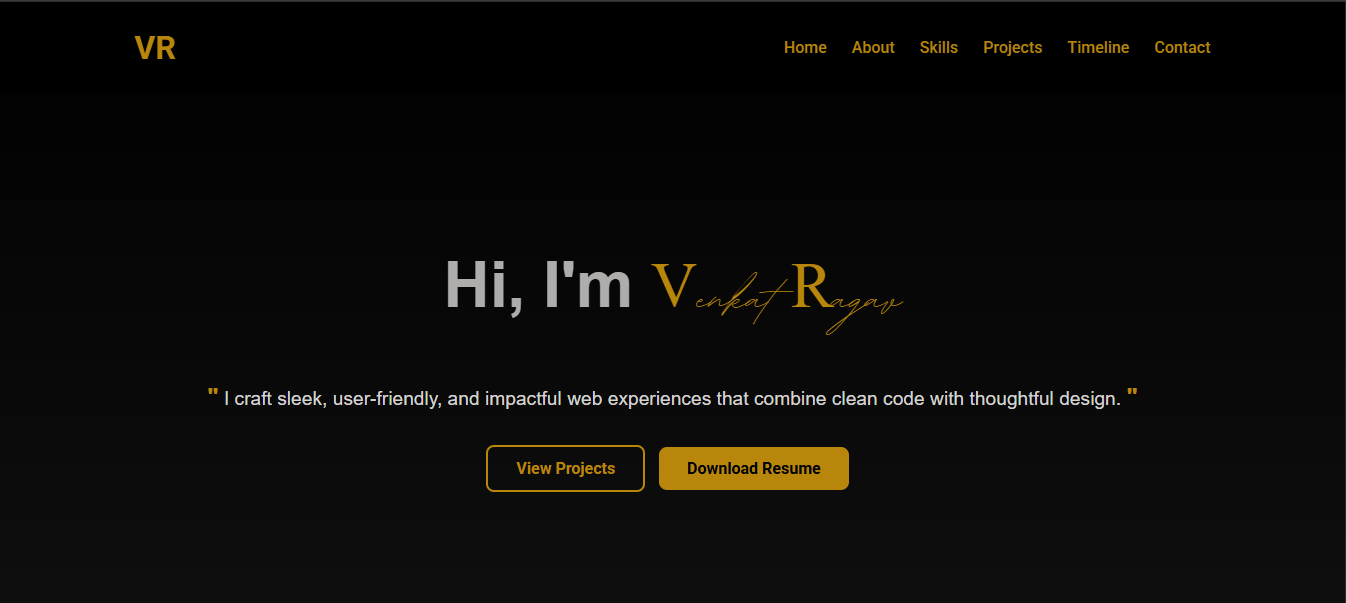
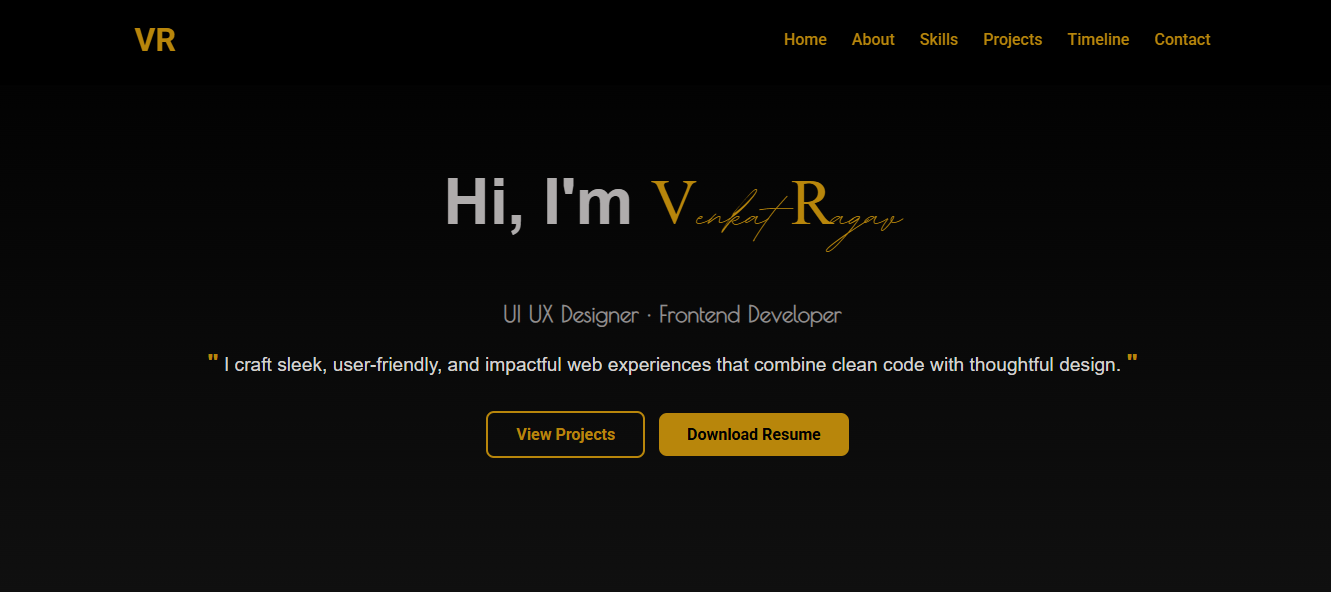
v3

diff --git a/index.html b/index.html
@@ -34,7 +34,8 @@
             Hi, I'm <span class="name-highlight">Venkat Ragav</span>
           </h1>
           <p class="role">
-            <span>"</span> I craft sleek, user-friendly, and impactful web
+            <span id="role1">UI UX Designer · Frontend Developer</span><br>
+            <br><span>"</span> I craft sleek, user-friendly, and impactful web
             experiences that combine clean code with thoughtful design.
             <span>"</span>
           </p>
@@ -58,7 +59,7 @@
         <div class="about-right">
           <div
             class="about-box"
-            data-text="Web Designer & Developer with a growing focus on UI/UX. Skilled in front-end development and crafting responsive, user-friendly websites with clean and thoughtful design."
+            data-text="UI/UX Designer & Developer with a growing focus on UI/UX. Skilled in front-end development and crafting responsive, user-friendly websites with clean and thoughtful design."
           ></div>
         </div>
       </div>

diff --git a/css/style.css b/css/style.css
@@ -12,7 +12,7 @@
 /* General */
 html {
   scroll-behavior: smooth;
-  scroll-padding-top: 80px;
+  scroll-padding-top: 0;
 }
 body {
   margin: 0;
@@ -105,6 +105,12 @@ body {
 .hero-right {
   text-align: center;
 }
+/* Reduce space above hero */
+.hero.section {
+  padding-top: 20px; /* was 80px in .section */
+  padding-bottom: 80px; /* keep bottom same if you want */
+}
+
 .big-name {
   font-family: "Montserrat", sans-serif;
   font-size: 4rem;
@@ -125,6 +131,13 @@ body {
   color: #b8860b;
   font-size: 1.5rem;
   font-weight: bold;
+}
+
+#role1{
+  color: #918e8e;
+  font-family: "Poiret One", sans-serif;
+  font-weight: 800;
+  font-size: 1.4rem;
 }
 .hero-buttons a {
   display: inline-block;

diff --git a/js/script.js b/js/script.js
@@ -68,7 +68,7 @@ function typeWriter(element, text, delay = 30) {
 const aboutBox = document.querySelector(".about-box");
 if (aboutBox) {
   aboutBox.dataset.text =
-    "Web Designer & Developer with a growing focus on UI/UX. Skilled in front-end development and crafting responsive, user-friendly websites with clean and thoughtful design.";
+    "UI/UX Designer & Frontend Developer with a growing focus on UI/UX. Skilled in front-end development and crafting responsive, user-friendly websites with clean and thoughtful design.";
   const aboutObserver = new IntersectionObserver(
     (entries, observer) => {
       entries.forEach((entry) => {
